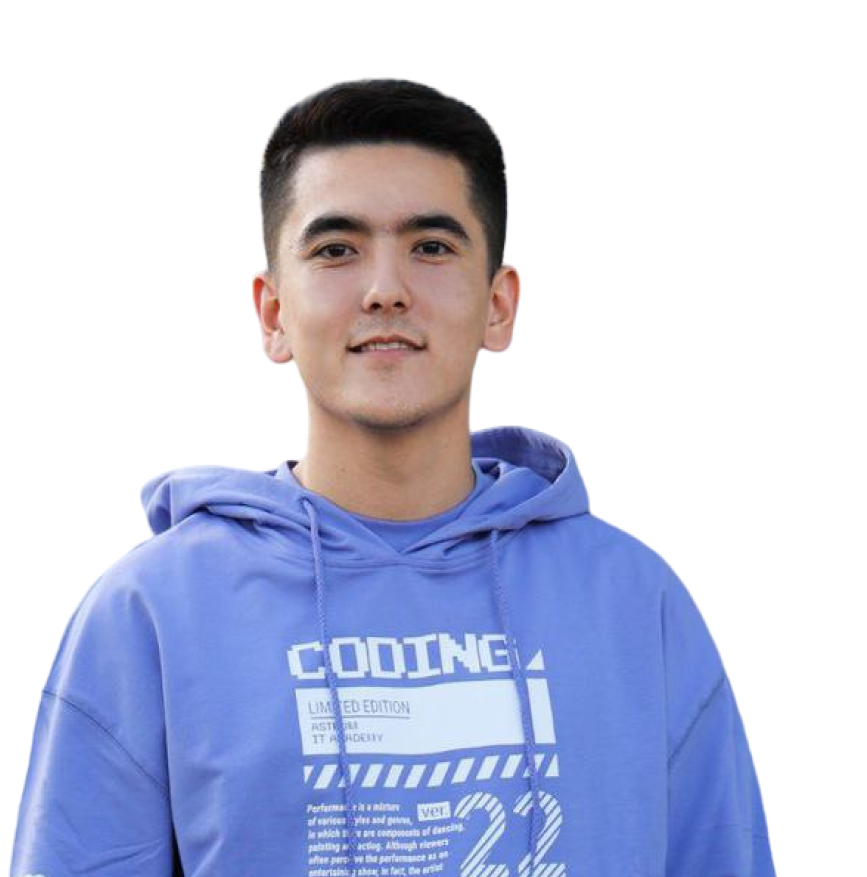
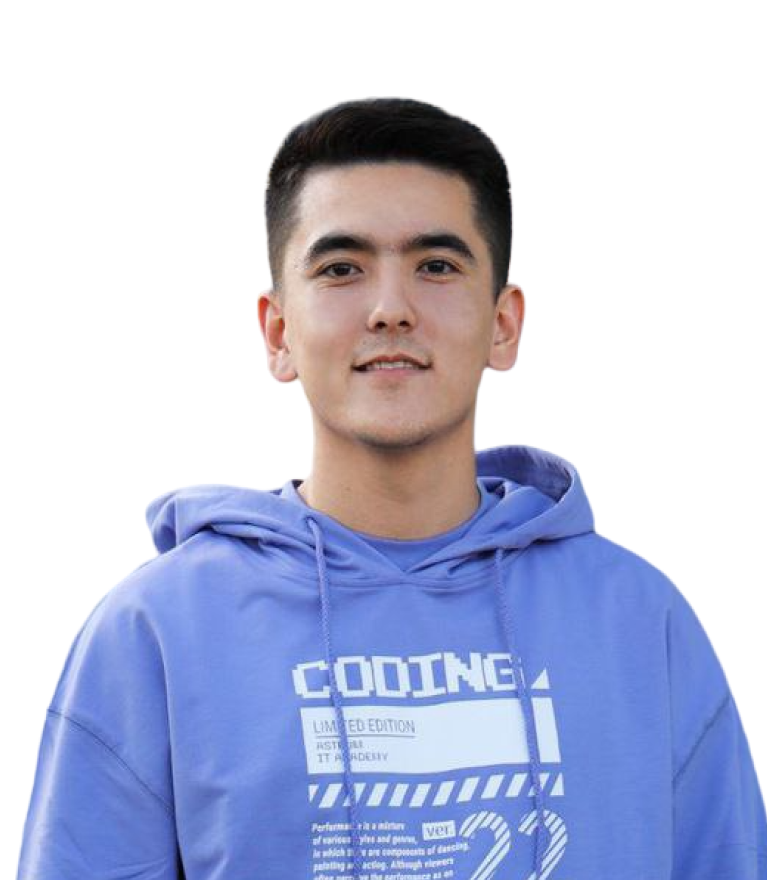
n

diff --git a/style/style.css b/style/style.css
@@ -632,132 +632,7 @@ main .main-cards__card:nth-child(6) p {
     right: -50px;
 }
 
-.content {
-    display: flex;
-    height: 100vh;
-}
 
-.content__left{
-    width: 45%;
-    height: 100%;
-    background: rgba(255, 255, 255, 0.20);
-    position: relative;
-}
-
-.content__left img {
-    width: 800px;
-    position: absolute;
-    bottom: 0;
-    right: -150px;
-}
-
-.content__right {
-    display: flex;
-    align-items: center;
-    justify-content: center;
-    width: 55%;
-    background: #363749;
-}
-
-.content__right-card {
-    width: 650px;
-    display: flex;
-    flex-direction: column;
-    row-gap: 31px;
-}
-
-.content__right-card h2 {
-    color: #FFF;
-    font-family: var(--poppins);
-    font-size: 50px;
-    font-style: normal;
-    font-weight: 700;
-    line-height: 66.75px;
-}
-
-.progress-card {
-    display: flex;
-    align-items: center;
-    gap: 15px;
-}
-
-.progress-card p {
-    color: #FFF;
-    font-family: var(--poppins);
-    font-size: 24px;
-    font-style: normal;
-    font-weight: 400;
-    line-height: normal;
-}
-
-.progress {
-    width: 650px;
-    height: 20px;
-    border-radius: 50px;
-    background: #1B1C2C;
-}
-
-.progress-bar {
-    border-radius: 50px;
-    background: #17A4D0;
-    height: 100%;
-    width: 90%;
-}
-
-.content__right-card span {
-    color: #FFF;
-    font-family: var(--poppins);
-    font-size: 24px;
-    font-style: normal;
-    font-weight: 600;
-    line-height: normal;
-}
-
-.content__right-card li {
-    display: flex;
-    align-items: center;
-}
-
-.content__right-card li p {
-    color: #FFF;
-    font-family: Poppins;
-    font-size: 20px;
-    font-style: normal;
-    font-weight: 400;
-    line-height: normal;
-}
-
-.content__right-card li p .text-colors {
-    color: #3FE2F8;
-    font-family: var(--poppins);
-    font-size: 20px;
-    font-style: normal;
-    font-weight: 600;
-    line-height: normal;
-}
-
-.btn-link {
-    width: 436px;
-    height: 50px;
-    flex-shrink: 0;
-    border-radius: 100px;
-    background: #D0177B;
-    border: 2px solid #D0177B;
-    color: #FFF;
-    text-align: center;
-    font-family: var(--poppins);
-    font-size: 16px;
-    font-style: normal;
-    font-weight: 500;
-    line-height: 50px;
-    text-decoration: none;
-    transition: all .3s;
-}
-
-.btn-link:hover {
-    background-color: transparent;
-    color: #D0177B;
-}
 
 
 @media screen and (min-width: 1900px) {
@@ -916,39 +791,4 @@ main .main-cards__card:nth-child(6) p {
     .footer__right {
         margin-top: 30px;
     }
-
-    .content {
-        flex-direction: column-reverse;
-        height: auto;
-    }
-    .content__left{
-        width: 100%;
-    }
-    .content__left img {
-        position: static;
-        width: 100%;
-    }
-
-    .content__right {
-        position: static;
-        width: 100%;
-    }
-    .content__right-card{
-        width: 100%;
-        padding: 15px;
-    }
-    .content__right-card h2 {
-        font-size: 30px;
-        line-height: 40px;
-    }
-    .content__right-card span {
-        font-size: 20px;
-    }
-    .content__right-card li p {
-        font-size: 16px;
-    }
-    .btn-link{
-        width: 100%;
-    }
-
 }

diff --git a/style/main.css b/style/main.css
@@ -1,0 +1,169 @@
+@import url('https://fonts.googleapis.com/css2?family=Poppins:wght@100;200;300;400;500;600;700;800;900&display=swap');
+:root {
+    --back_1: rgba(31, 32, 48, 1);
+    --back__g: rgba(127, 23, 208, 1);
+    --back__g2: rgba(208, 23, 123, 1); 
+    --btn-color: rgba(40, 182, 246, 1);
+    --font-color: rgba(255, 255, 255, 1);   
+    --poppins: 'Poppins', sans-serif;
+}
+
+*{
+    margin: 0;
+    padding: 0;
+    box-sizing: border-box;
+}
+
+.main {
+    display: flex;
+}
+
+.main__left {
+    width: 45%;
+    background-color: var(--back_1);
+    padding: 0 85px;
+    display: flex;
+    flex-direction: column;
+    justify-content: center;
+    align-items: center;
+    gap: 31px;
+}
+
+.main__left h1 {
+    color: #FFF;
+    font-family: var(--poppins);
+    font-size: 50px;
+    font-style: normal;
+    font-weight: 700;
+    line-height: 66.75px;
+    text-align: center;
+}
+
+.main__left p {
+    color: #FFF;
+    text-align: center;
+    font-family: var(--poppins);
+    font-size: 24px;
+    font-style: normal;
+    font-weight: 600;
+    line-height: normal;
+}
+
+.main__left a {
+    display: flex;
+    justify-content: center;
+    align-items: center;
+    text-decoration: none;
+    background-color: var(--btn-color);
+    border-radius: 100px;
+    width: 493px;
+    padding: 11px;
+    gap: 10px;
+}
+
+.main__left a img {
+    width: 32px;
+    height: 32px;
+}
+
+.main__left a li {
+    list-style: none;
+    color: #FFF;
+    text-align: center;
+    font-family: var(--poppins);
+    font-size: 20px;
+    font-style: normal;
+    font-weight: 600;
+    line-height: normal;
+}
+
+.main__right {
+    display: flex;
+    justify-content: end;
+    align-items: end;
+    width: 55%;
+    position: relative;
+    background: linear-gradient(to top, var(--back__g2), var(--back__g) 55%);
+}
+
+.main__right img {
+    width: 90%;
+}
+
+
+
+@media screen and (min-width: 1900px) {
+    .container {
+       width: 1500px;
+       margin: auto;
+    }
+}
+
+@media screen and (max-width: 1473px) {
+    .main__left {
+        padding: 0 40px;
+    }
+}
+
+@media screen and (max-width: 1273px) {
+    .main__left {
+        padding: 0 20px;
+    }
+}
+
+@media screen and (max-width: 1184px) {
+    .main__left {
+        width: 50%;
+    }
+
+    .main__right {
+        width: 50%;
+    }
+
+
+}
+
+@media screen and (max-width: 1065px) {
+    .main__left h1{
+        font-size: 40px;
+    }
+
+    .main__left p{
+        font-size: 20px;
+    }
+
+    .main__left a {
+        width: 100%;
+    }
+
+    .main__right img {
+        width: 95%;
+    }
+}
+
+@media screen and (max-width: 600px) {
+    .main {
+       flex-direction: column;
+    }
+
+    .main__left {
+        width: 100%;
+        gap: 18px;
+        padding: 70px 30px 63px 30px;
+    }
+
+    .main__left h1 {
+        line-height: 42px;
+        font-size: 32px;
+        font-style: normal;
+        font-weight: 700;
+    }
+
+    .main__right {
+        width: 100%;
+    }
+
+    .main__right img {
+        width: 100%;
+    }
+}

diff --git a/main.html b/main.html
@@ -3,37 +3,24 @@
 <head>
     <meta charset="UTF-8">
     <meta name="viewport" content="width=device-width, initial-scale=1.0">
-    <title>Ro'yxatdan o'tish</title>
-    <link rel="stylesheet" href="style/style.css">
+    <title>Dasturlashda natija</title>
+    <link rel="stylesheet" href="style/main.css">
 </head>
 <body>
-    <div class="content">
-        <div class="content__left">
-            <img src="imgs/jpg/photo_2023-07-05_08-09-04-PhotoRoom 1.png" alt="">
-        </div>
-
-        <div class="content__right">
-            <div class="content__right-card">
-                <h2>Ro'yxatdan o'tishingiz deyarli tugallandi</h2>
-
-                <div class="progress-card">
-                    <div class="progress">
-                        <div class="progress-bar"></div>
-                    </div>
-                    <p>%90</p>
-                </div>
-
-                <span>So'ngi qadam qoldi....</span>
-
-                <li>
-                    <img src="imgs/icon/Frame.png" alt="Frame">
-                    <p>Jonli efir <span class="text-colors">BEPUL</span> onlayn dars bo'lib o'tadigan telegram kanalga a'zo bo'ling</p>
-                </li>
-
-                <a href="https://t.me/+rKCAWziqTHU0OWJi" target="_blank" class="btn-link">A’zo bo’ling</a>
-
+    <div class="container">
+        <main class="main">
+            <div class="main__left">
+                <h1>Oxirgi qadam qoldi</h1>
+                <p>Ochiq darsda qatnashish uchun, yopiq telegram kanalimizga obuna bo’ling!</p>
+                <a href="https://t.me/+rKCAWziqTHU0OWJi" target="_blank" class="main__btn">
+                    <img src="imgs/icon/Telegram.png" alt="">
+                    <li>Obuna bo’lish</li>
+                </a>
             </div>
-        </div>
+            <div class="main__right">
+                <img src="imgs/jpg/photo_2023-07-05_08-09-04-PhotoRoom 1.png" alt="">
+            </div>
+        </main>
     </div>
 </body>
 </html>
